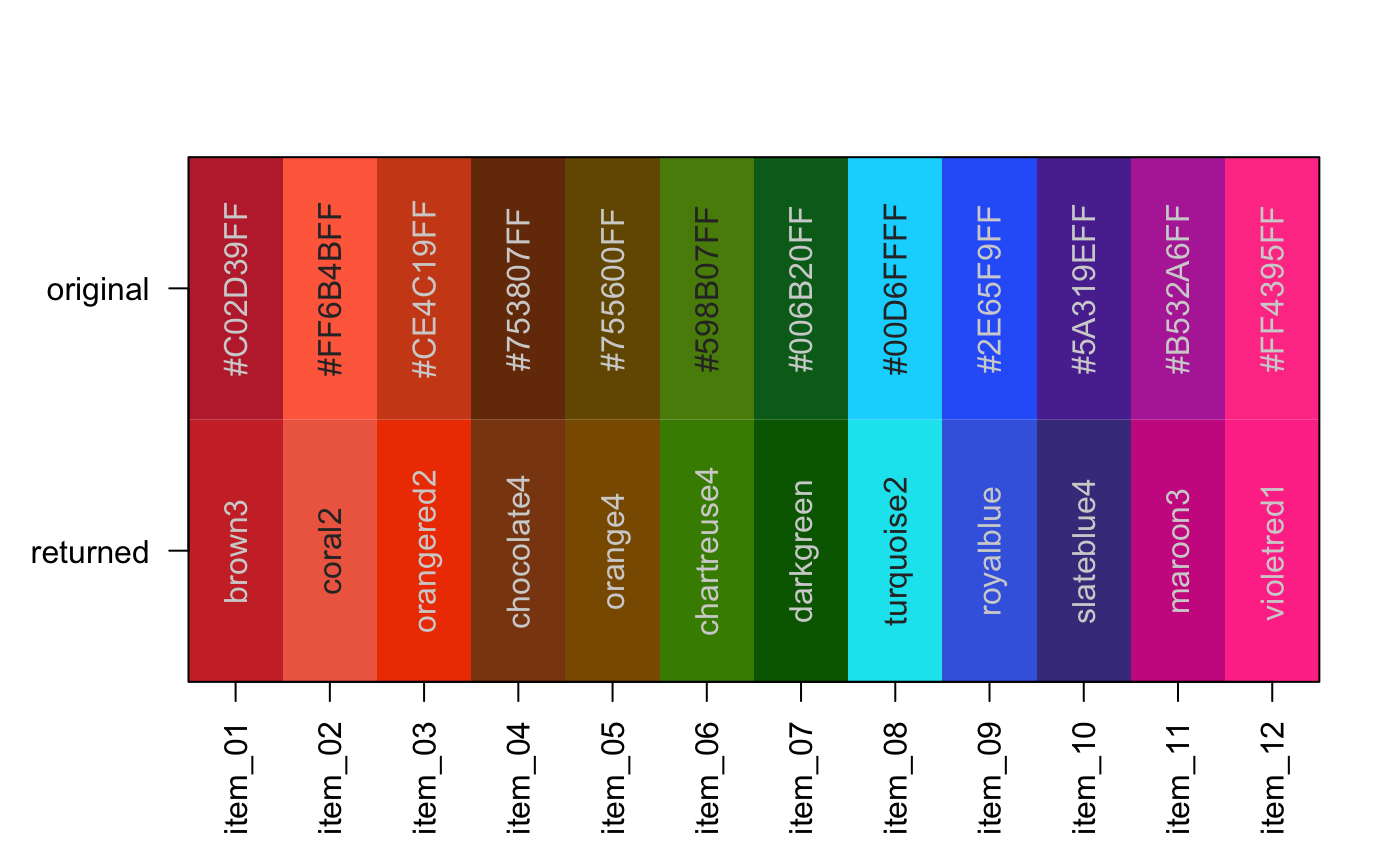
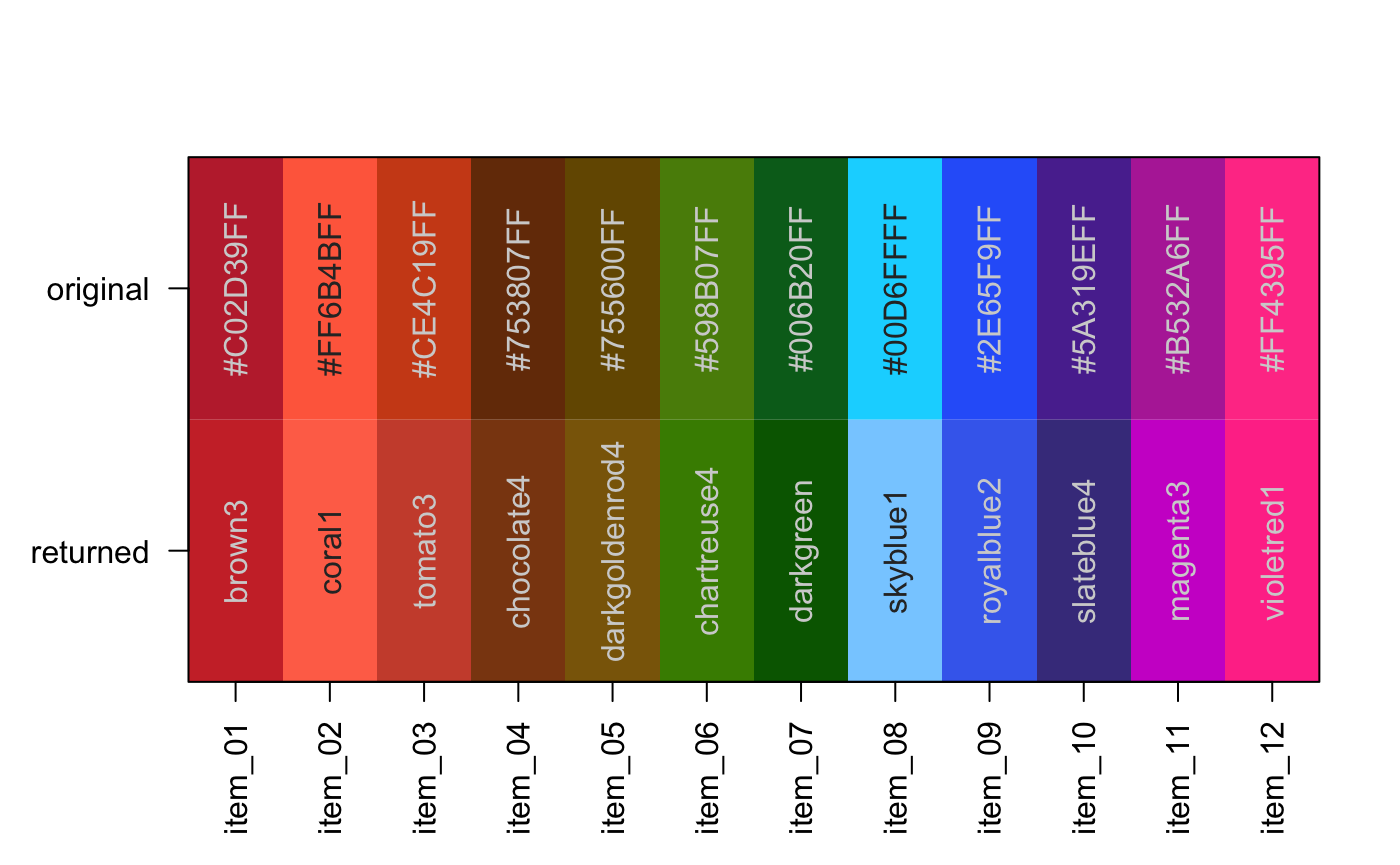
Added example for theme_jam(), rebuilt pkgdown docs.

diff --git a/docs/reference/vals2colorLevels.html b/docs/reference/vals2colorLevels.html
@@ -63,7 +63,7 @@
       </button>
       <span class="navbar-brand">
         <a class="navbar-link" href="../index.html">colorjam</a>
-        <span class="version label label-default" data-toggle="tooltip" data-placement="bottom" title="Released version">0.0.8.900</span>
+        <span class="version label label-default" data-toggle="tooltip" data-placement="bottom" title="Released version">0.0.12.900</span>
       </span>
     </div>
 
@@ -198,17 +198,17 @@ data.</p>
     <h2 class="hasAnchor" id="examples"><a class="anchor" href="#examples"></a>Examples</h2>
     <pre class="examples"><div class='input'><span class='co'># Start with an example numeric vector</span>
 <span class='no'>x</span> <span class='kw'>&lt;-</span> <span class='fu'>nameVector</span>(-<span class='fl'>5</span>:<span class='fl'>10</span>);
-<span class='fu'>showColors</span>(<span class='fu'>vals2colorLevels</span>(<span class='no'>x</span>));</div><div class='output co'>#&gt; <span class='warning'>Warning: no non-missing arguments to max; returning -Inf</span></div><div class='output co'>#&gt; <span class='error'>Error in seq.default(from = 2 * baseline - numLimit, to = numLimit, length.out = rampN +     1): 'from' must be a finite number</span></div><div class='input'>
+<span class='fu'>showColors</span>(<span class='fu'>vals2colorLevels</span>(<span class='no'>x</span>));</div><div class='img'><img src='vals2colorLevels-1.png' alt='' width='700' height='433' /></div><div class='input'>
 <span class='co'># decrease the number of gradient colors</span>
-<span class='fu'>showColors</span>(<span class='fu'>vals2colorLevels</span>(<span class='no'>x</span>, <span class='kw'>rampN</span><span class='kw'>=</span><span class='fl'>15</span>))</div><div class='output co'>#&gt; <span class='warning'>Warning: no non-missing arguments to max; returning -Inf</span></div><div class='output co'>#&gt; <span class='error'>Error in seq.default(from = 2 * baseline - numLimit, to = numLimit, length.out = rampN +     1): 'from' must be a finite number</span></div><div class='input'>
+<span class='fu'>showColors</span>(<span class='fu'>vals2colorLevels</span>(<span class='no'>x</span>, <span class='kw'>rampN</span><span class='kw'>=</span><span class='fl'>15</span>))</div><div class='img'><img src='vals2colorLevels-2.png' alt='' width='700' height='433' /></div><div class='input'>
 <span class='co'># change the baseline</span>
-<span class='fu'>showColors</span>(<span class='fu'>vals2colorLevels</span>(<span class='no'>x</span>, <span class='kw'>baseline</span><span class='kw'>=</span>-<span class='fl'>2</span>));</div><div class='input'>
+<span class='fu'>showColors</span>(<span class='fu'>vals2colorLevels</span>(<span class='no'>x</span>, <span class='kw'>baseline</span><span class='kw'>=</span>-<span class='fl'>2</span>));</div><div class='img'><img src='vals2colorLevels-3.png' alt='' width='700' height='433' /></div><div class='input'>
 <span class='co'># adjust the gradient using lens</span>
 <span class='fu'><a href='https://www.rdocumentation.org/packages/graphics/topics/par'>par</a></span>(<span class='st'>"mar"</span><span class='kw'>=</span><span class='fu'><a href='https://www.rdocumentation.org/packages/base/topics/c'>c</a></span>(<span class='fl'>5</span>,<span class='fl'>5</span>,<span class='fl'>4</span>,<span class='fl'>2</span>));
 <span class='fu'>imageByColors</span>(<span class='fu'>rbindList</span>(<span class='fu'><a href='https://www.rdocumentation.org/packages/base/topics/lapply'>lapply</a></span>(<span class='fu'>nameVector</span>(<span class='fu'><a href='https://www.rdocumentation.org/packages/base/topics/c'>c</a></span>(-<span class='fl'>5</span>,-<span class='fl'>2</span>,<span class='fl'>0</span>,<span class='fl'>2</span>,<span class='fl'>5</span>)), <span class='kw'>function</span>(<span class='no'>lens</span>){
    <span class='fu'>vals2colorLevels</span>(<span class='no'>x</span>, <span class='kw'>rampN</span><span class='kw'>=</span><span class='fl'>25</span>, <span class='kw'>lens</span><span class='kw'>=</span><span class='no'>lens</span>);
-})));</div><div class='output co'>#&gt; <span class='warning'>Warning: no non-missing arguments to max; returning -Inf</span></div><div class='output co'>#&gt; <span class='error'>Error in seq.default(from = 2 * baseline - numLimit, to = numLimit, length.out = rampN +     1): 'from' must be a finite number</span></div><div class='input'><span class='fu'><a href='https://www.rdocumentation.org/packages/graphics/topics/title'>title</a></span>(<span class='kw'>ylab</span><span class='kw'>=</span><span class='st'>"color lens factor"</span>, <span class='kw'>xlab</span><span class='kw'>=</span><span class='st'>"numeric value"</span>,
-   <span class='kw'>main</span><span class='kw'>=</span><span class='st'>"Effects of warping the color gradient"</span>);</div><div class='img'><img src='vals2colorLevels-1.png' alt='' width='700' height='433' /></div><div class='input'>
+})));</div><div class='input'><span class='fu'><a href='https://www.rdocumentation.org/packages/graphics/topics/title'>title</a></span>(<span class='kw'>ylab</span><span class='kw'>=</span><span class='st'>"color lens factor"</span>, <span class='kw'>xlab</span><span class='kw'>=</span><span class='st'>"numeric value"</span>,
+   <span class='kw'>main</span><span class='kw'>=</span><span class='st'>"Effects of warping the color gradient"</span>);</div><div class='img'><img src='vals2colorLevels-4.png' alt='' width='700' height='433' /></div><div class='input'>
 </div></pre>
   </div>
   <div class="col-md-3 hidden-xs hidden-sm" id="sidebar">

diff --git a/docs/reference/theme_jam.html b/docs/reference/theme_jam.html
@@ -63,7 +63,7 @@
       </button>
       <span class="navbar-brand">
         <a class="navbar-link" href="../index.html">colorjam</a>
-        <span class="version label label-default" data-toggle="tooltip" data-placement="bottom" title="Released version">0.0.8.900</span>
+        <span class="version label label-default" data-toggle="tooltip" data-placement="bottom" title="Released version">0.0.12.900</span>
       </span>
     </div>
 
@@ -113,12 +113,12 @@
     
     </div>
 
-    <pre class="usage"><span class='fu'>theme_jam</span>(<span class='kw'>theme_default</span> <span class='kw'>=</span> <span class='no'>theme_bw</span>, <span class='kw'>base_size</span> <span class='kw'>=</span> <span class='fl'>18</span>,
+    <pre class="usage"><span class='fu'>theme_jam</span>(<span class='kw'>theme_default</span> <span class='kw'>=</span> <span class='kw pkg'>ggplot2</span><span class='kw ns'>::</span><span class='no'><a href='https://ggplot2.tidyverse.org/reference/ggtheme.html'>theme_bw</a></span>, <span class='kw'>base_size</span> <span class='kw'>=</span> <span class='fl'>18</span>,
   <span class='kw'>grid.major.size</span> <span class='kw'>=</span> <span class='fl'>0.5</span>, <span class='kw'>grid.minor.size</span> <span class='kw'>=</span> <span class='fl'>0.25</span>,
   <span class='kw'>strip.background.colour</span> <span class='kw'>=</span> <span class='st'>"grey30"</span>,
   <span class='kw'>strip.background.fill</span> <span class='kw'>=</span> <span class='st'>"lightgoldenrod1"</span>,
-  <span class='kw'>panel.grid.major.colour</span> <span class='kw'>=</span> <span class='st'>"grey60"</span>,
-  <span class='kw'>panel.grid.minor.colour</span> <span class='kw'>=</span> <span class='st'>"grey80"</span>, <span class='kw'>axis.text.x.angle</span> <span class='kw'>=</span> <span class='fl'>60</span>,
+  <span class='kw'>panel.grid.major.colour</span> <span class='kw'>=</span> <span class='st'>"grey80"</span>,
+  <span class='kw'>panel.grid.minor.colour</span> <span class='kw'>=</span> <span class='st'>"grey90"</span>, <span class='kw'>axis.text.x.angle</span> <span class='kw'>=</span> <span class='fl'>60</span>,
   <span class='kw'>blankGrid</span> <span class='kw'>=</span> <span class='fl'>FALSE</span>, <span class='kw'>blankXgrid</span> <span class='kw'>=</span> <span class='fl'>FALSE</span>, <span class='kw'>blankYgrid</span> <span class='kw'>=</span> <span class='fl'>FALSE</span>,
   <span class='kw'>resetTheme</span> <span class='kw'>=</span> <span class='fl'>TRUE</span>, <span class='kw'>verbose</span> <span class='kw'>=</span> <span class='fl'>FALSE</span>, <span class='no'>...</span>)</pre>
     
@@ -198,6 +198,15 @@ overlaps.</p>
   <code><a href='vals2colorLevels.html'>vals2colorLevels</a></code></p></div>
     
 
+    <h2 class="hasAnchor" id="examples"><a class="anchor" href="#examples"></a>Examples</h2>
+    <pre class="examples"><div class='input'><span class='kw'>if</span> (<span class='fu'><a href='https://www.rdocumentation.org/packages/base/topics/message'>suppressPackageStartupMessages</a></span>(<span class='fu'><a href='https://www.rdocumentation.org/packages/base/topics/library'>require</a></span>(<span class='no'>ggplot2</span>))) {
+   <span class='no'>dsamp</span> <span class='kw'>&lt;-</span> <span class='no'>diamonds</span>[<span class='fu'><a href='https://www.rdocumentation.org/packages/base/topics/sample'>sample</a></span>(<span class='fu'><a href='https://www.rdocumentation.org/packages/base/topics/nrow'>nrow</a></span>(<span class='no'>diamonds</span>), <span class='fl'>1000</span>),];
+   (<span class='no'>d</span> <span class='kw'>&lt;-</span> <span class='fu'><a href='https://ggplot2.tidyverse.org/reference/ggplot.html'>ggplot</a></span>(<span class='no'>dsamp</span>, <span class='fu'><a href='https://ggplot2.tidyverse.org/reference/aes.html'>aes</a></span>(<span class='no'>carat</span>, <span class='no'>price</span>)) + <span class='fu'><a href='https://ggplot2.tidyverse.org/reference/geom_point.html'>geom_point</a></span>(<span class='fu'><a href='https://ggplot2.tidyverse.org/reference/aes.html'>aes</a></span>(<span class='kw'>colour</span><span class='kw'>=</span><span class='no'>cut</span>), <span class='kw'>size</span><span class='kw'>=</span><span class='fl'>2</span>));
+
+   <span class='fu'><a href='https://www.rdocumentation.org/packages/base/topics/print'>print</a></span>(<span class='no'>d</span> + <span class='fu'><a href='scale_color_jam.html'>scale_color_jam</a></span>() + <span class='fu'><a href='https://ggplot2.tidyverse.org/reference/labs.html'>ggtitle</a></span>(<span class='st'>"scale_color_jam()"</span>));
+   <span class='fu'><a href='https://www.rdocumentation.org/packages/base/topics/print'>print</a></span>(<span class='no'>d</span> + <span class='fu'><a href='scale_color_jam.html'>scale_color_jam</a></span>() + <span class='fu'>theme_jam</span>() + <span class='fu'><a href='https://ggplot2.tidyverse.org/reference/labs.html'>ggtitle</a></span>(<span class='st'>"scale_color_jam() + \ntheme_jam()"</span>));
+}</div><div class='img'><img src='theme_jam-1.png' alt='' width='700' height='433' /></div><div class='img'><img src='theme_jam-2.png' alt='' width='700' height='433' /></div><div class='input'>
+</div></pre>
   </div>
   <div class="col-md-3 hidden-xs hidden-sm" id="sidebar">
     <h2>Contents</h2>
@@ -207,7 +216,9 @@ overlaps.</p>
       <li><a href="#details">Details</a></li>
 
       <li><a href="#see-also">See also</a></li>
-          </ul>
+      
+      <li><a href="#examples">Examples</a></li>
+    </ul>
 
   </div>
 </div>

diff --git a/docs/reference/closestRcolor.html b/docs/reference/closestRcolor.html
@@ -63,7 +63,7 @@
       </button>
       <span class="navbar-brand">
         <a class="navbar-link" href="../index.html">colorjam</a>
-        <span class="version label label-default" data-toggle="tooltip" data-placement="bottom" title="Released version">0.0.8.900</span>
+        <span class="version label label-default" data-toggle="tooltip" data-placement="bottom" title="Released version">0.0.12.900</span>
       </span>
     </div>
 
@@ -114,9 +114,9 @@
     </div>
 
     <pre class="usage"><span class='fu'>closestRcolor</span>(<span class='no'>x</span>, <span class='kw'>colorSet</span> <span class='kw'>=</span> <span class='fu'>unvigrep</span>(<span class='st'>"^gr[ae]y($|[0-9]+$)"</span>, <span class='fu'><a href='https://www.rdocumentation.org/packages/grDevices/topics/colors'>colors</a></span>()),
-  <span class='kw'>showPalette</span> <span class='kw'>=</span> <span class='fl'>FALSE</span>, <span class='kw'>colorModel</span> <span class='kw'>=</span> <span class='fu'><a href='https://www.rdocumentation.org/packages/base/topics/c'>c</a></span>(<span class='st'>"hcl"</span>), <span class='kw'>Hwt</span> <span class='kw'>=</span> <span class='fl'>2</span>, <span class='kw'>Cwt</span> <span class='kw'>=</span> <span class='fl'>1</span>,
-  <span class='kw'>Lwt</span> <span class='kw'>=</span> <span class='fl'>5</span>, <span class='kw'>warpHue</span> <span class='kw'>=</span> <span class='fl'>TRUE</span>, <span class='kw'>returnType</span> <span class='kw'>=</span> <span class='fu'><a href='https://www.rdocumentation.org/packages/base/topics/c'>c</a></span>(<span class='st'>"color"</span>, <span class='st'>"name"</span>, <span class='st'>"match"</span>),
-  <span class='kw'>verbose</span> <span class='kw'>=</span> <span class='fl'>FALSE</span>, <span class='no'>...</span>)</pre>
+  <span class='kw'>showPalette</span> <span class='kw'>=</span> <span class='fl'>FALSE</span>, <span class='kw'>colorModel</span> <span class='kw'>=</span> <span class='fu'><a href='https://www.rdocumentation.org/packages/base/topics/c'>c</a></span>(<span class='st'>"hcl"</span>, <span class='st'>"LUV"</span>), <span class='kw'>Hwt</span> <span class='kw'>=</span> <span class='fl'>2</span>,
+  <span class='kw'>Cwt</span> <span class='kw'>=</span> <span class='fl'>1</span>, <span class='kw'>Lwt</span> <span class='kw'>=</span> <span class='fl'>4</span>, <span class='kw'>warpHue</span> <span class='kw'>=</span> <span class='fl'>TRUE</span>, <span class='kw'>method</span> <span class='kw'>=</span> <span class='st'>"maximum"</span>,
+  <span class='kw'>returnType</span> <span class='kw'>=</span> <span class='fu'><a href='https://www.rdocumentation.org/packages/base/topics/c'>c</a></span>(<span class='st'>"color"</span>, <span class='st'>"name"</span>, <span class='st'>"match"</span>), <span class='kw'>verbose</span> <span class='kw'>=</span> <span class='fl'>FALSE</span>, <span class='no'>...</span>)</pre>
     
     <h2 class="hasAnchor" id="arguments"><a class="anchor" href="#arguments"></a>Arguments</h2>
     <table class="ref-arguments">
@@ -189,12 +189,12 @@ although the default values appear to work fairly well.</p>
     
 
     <h2 class="hasAnchor" id="examples"><a class="anchor" href="#examples"></a>Examples</h2>
-    <pre class="examples"><div class='input'><span class='fu'>closestRcolor</span>(<span class='fu'><a href='rainbowJam.html'>rainbowJam</a></span>(<span class='fl'>12</span>), <span class='kw'>showPalette</span><span class='kw'>=</span><span class='fl'>TRUE</span>);</div><div class='output co'>#&gt; <span class='warning'>Warning: package 'colorspace' was built under R version 3.5.2</span></div><div class='img'><img src='closestRcolor-1.png' alt='' width='700' height='433' /></div><div class='output co'>#&gt;     #C02D39FF     #FF6B4BFF     #CE4C19FF     #753807FF     #755600FF 
-#&gt;      "brown3"      "coral2"  "orangered2"  "chocolate4"     "orange4" 
-#&gt;     #598B07FF     #006B20FF     #00D6FFFF     #2E65F9FF     #5A319EFF 
-#&gt; "chartreuse4"   "darkgreen"  "turquoise2"   "royalblue"  "slateblue4" 
-#&gt;     #B532A6FF     #FF4395FF 
-#&gt;     "maroon3"  "violetred1" </div><div class='input'>
+    <pre class="examples"><div class='input'><span class='fu'>closestRcolor</span>(<span class='fu'><a href='rainbowJam.html'>rainbowJam</a></span>(<span class='fl'>12</span>), <span class='kw'>showPalette</span><span class='kw'>=</span><span class='fl'>TRUE</span>);</div><div class='output co'>#&gt; <span class='warning'>Warning: package ‘colorspace’ was built under R version 3.5.2</span></div><div class='img'><img src='closestRcolor-1.png' alt='' width='700' height='433' /></div><div class='output co'>#&gt;        #C02D39FF        #FF6B4BFF        #CE4C19FF        #753807FF 
+#&gt;         "brown3"         "coral1"        "tomato3"     "chocolate4" 
+#&gt;        #755600FF        #598B07FF        #006B20FF        #00D6FFFF 
+#&gt; "darkgoldenrod4"    "chartreuse4"      "darkgreen"       "skyblue1" 
+#&gt;        #2E65F9FF        #5A319EFF        #B532A6FF        #FF4395FF 
+#&gt;     "royalblue2"     "slateblue4"       "magenta3"     "violetred1" </div><div class='input'>
 </div></pre>
   </div>
   <div class="col-md-3 hidden-xs hidden-sm" id="sidebar">

diff --git a/docs/reference/scale_color_jam.html b/docs/reference/scale_color_jam.html
@@ -63,7 +63,7 @@
       </button>
       <span class="navbar-brand">
         <a class="navbar-link" href="../index.html">colorjam</a>
-        <span class="version label label-default" data-toggle="tooltip" data-placement="bottom" title="Released version">0.0.8.900</span>
+        <span class="version label label-default" data-toggle="tooltip" data-placement="bottom" title="Released version">0.0.12.900</span>
       </span>
     </div>
 
@@ -114,7 +114,8 @@
     </div>
 
     <pre class="usage"><span class='fu'>scale_color_jam</span>(<span class='no'>...</span>, <span class='kw'>type</span> <span class='kw'>=</span> <span class='st'>"seq"</span>, <span class='kw'>palette</span> <span class='kw'>=</span> <span class='fl'>1</span>, <span class='kw'>direction</span> <span class='kw'>=</span> <span class='fl'>1</span>,
-  <span class='kw'>invert</span> <span class='kw'>=</span> <span class='fl'>FALSE</span>, <span class='kw'>darkFactor</span> <span class='kw'>=</span> <span class='fl'>1</span>, <span class='kw'>sFactor</span> <span class='kw'>=</span> <span class='fl'>1</span>, <span class='kw'>useGrey</span> <span class='kw'>=</span> <span class='fl'>20</span>)</pre>
+  <span class='kw'>invert</span> <span class='kw'>=</span> <span class='fl'>FALSE</span>, <span class='kw'>darkFactor</span> <span class='kw'>=</span> <span class='fl'>1</span>, <span class='kw'>sFactor</span> <span class='kw'>=</span> <span class='fl'>1</span>, <span class='kw'>alpha</span> <span class='kw'>=</span> <span class='fl'>1</span>,
+  <span class='kw'>useGrey</span> <span class='kw'>=</span> <span class='fl'>20</span>)</pre>
     
     <h2 class="hasAnchor" id="arguments"><a class="anchor" href="#arguments"></a>Arguments</h2>
     <table class="ref-arguments">
@@ -156,6 +157,11 @@ respectively. Intended when using <code>scale_color_jam()</code> and
 or darker than the fill color, a useful effect for outlines.</p></td>
     </tr>
     <tr>
+      <th>alpha</th>
+      <td><p>numeric value indicating the alpha transparency, on a
+scale of 0 (transparent) to 1 (non-transparent).</p></td>
+    </tr>
+    <tr>
       <th>useGrey</th>
       <td><p>integer value between 0 and 100 indicating the grey
 value, as sent to <code><a href='https://www.rdocumentation.org/packages/jamba/topics/setTextContrastColor'>jamba::setTextContrastColor()</a></code>, used only when
@@ -185,7 +191,7 @@ distinct set of categorical colors than <code><a href='https://ggplot2.tidyverse
 
    <span class='fu'><a href='https://www.rdocumentation.org/packages/base/topics/print'>print</a></span>(<span class='no'>d</span> + <span class='fu'><a href='https://ggplot2.tidyverse.org/reference/scale_hue.html'>scale_color_hue</a></span>() + <span class='fu'><a href='https://ggplot2.tidyverse.org/reference/labs.html'>ggtitle</a></span>(<span class='st'>"scale_color_hue()"</span>));
    <span class='fu'><a href='https://www.rdocumentation.org/packages/base/topics/print'>print</a></span>(<span class='no'>d</span> + <span class='fu'>scale_color_jam</span>() + <span class='fu'><a href='https://ggplot2.tidyverse.org/reference/labs.html'>ggtitle</a></span>(<span class='st'>"scale_color_jam()"</span>));
-}</div><div class='img'><img src='scale_color_jam-1.png' alt='' width='700' height='433' /></div><div class='img'><img src='scale_color_jam-2.png' alt='' width='700' height='433' /></div></pre>
+}</div><div class='output co'>#&gt; <span class='warning'>Warning: package ‘ggplot2’ was built under R version 3.5.2</span></div><div class='img'><img src='scale_color_jam-1.png' alt='' width='700' height='433' /></div><div class='img'><img src='scale_color_jam-2.png' alt='' width='700' height='433' /></div></pre>
   </div>
   <div class="col-md-3 hidden-xs hidden-sm" id="sidebar">
     <h2>Contents</h2>

diff --git a/docs/reference/jam_pal.html b/docs/reference/jam_pal.html
@@ -63,7 +63,7 @@
       </button>
       <span class="navbar-brand">
         <a class="navbar-link" href="../index.html">colorjam</a>
-        <span class="version label label-default" data-toggle="tooltip" data-placement="bottom" title="Released version">0.0.8.900</span>
+        <span class="version label label-default" data-toggle="tooltip" data-placement="bottom" title="Released version">0.0.12.900</span>
       </span>
     </div>
 
@@ -114,7 +114,7 @@
     </div>
 
     <pre class="usage"><span class='fu'>jam_pal</span>(<span class='kw'>type</span> <span class='kw'>=</span> <span class='st'>"seq"</span>, <span class='kw'>palette</span> <span class='kw'>=</span> <span class='fl'>1</span>, <span class='kw'>direction</span> <span class='kw'>=</span> <span class='fl'>1</span>, <span class='kw'>invert</span> <span class='kw'>=</span> <span class='fl'>FALSE</span>,
-  <span class='kw'>darkFactor</span> <span class='kw'>=</span> <span class='fl'>1</span>, <span class='kw'>sFactor</span> <span class='kw'>=</span> <span class='fl'>1</span>, <span class='kw'>useGrey</span> <span class='kw'>=</span> <span class='fl'>20</span>)</pre>
+  <span class='kw'>darkFactor</span> <span class='kw'>=</span> <span class='fl'>1</span>, <span class='kw'>sFactor</span> <span class='kw'>=</span> <span class='fl'>1</span>, <span class='kw'>alpha</span> <span class='kw'>=</span> <span class='fl'>1</span>, <span class='kw'>useGrey</span> <span class='kw'>=</span> <span class='fl'>20</span>, <span class='no'>...</span>)</pre>
     
     <h2 class="hasAnchor" id="arguments"><a class="anchor" href="#arguments"></a>Arguments</h2>
     <table class="ref-arguments">
@@ -152,10 +152,19 @@ respectively. Intended when using <code><a href='scale_color_jam.html'>scale_col
 or darker than the fill color, a useful effect for outlines.</p></td>
     </tr>
     <tr>
+      <th>alpha</th>
+      <td><p>numeric value indicating the alpha transparency, on a
+scale of 0 (transparent) to 1 (non-transparent).</p></td>
+    </tr>
+    <tr>
       <th>useGrey</th>
       <td><p>integer value between 0 and 100 indicating the grey
 value, as sent to <code><a href='https://www.rdocumentation.org/packages/jamba/topics/setTextContrastColor'>jamba::setTextContrastColor()</a></code>, used only when
 <code>invert=TRUE</code>.</p></td>
+    </tr>
+    <tr>
+      <th>...</th>
+      <td><p>additional arguments are passed to <code><a href='rainbowJam.html'>rainbowJam()</a></code>.</p></td>
     </tr>
     </table>
     

diff --git a/docs/reference/scale_fill_jam.html b/docs/reference/scale_fill_jam.html
@@ -63,7 +63,7 @@
       </button>
       <span class="navbar-brand">
         <a class="navbar-link" href="../index.html">colorjam</a>
-        <span class="version label label-default" data-toggle="tooltip" data-placement="bottom" title="Released version">0.0.8.900</span>
+        <span class="version label label-default" data-toggle="tooltip" data-placement="bottom" title="Released version">0.0.12.900</span>
       </span>
     </div>
 
@@ -114,7 +114,8 @@
     </div>
 
     <pre class="usage"><span class='fu'>scale_fill_jam</span>(<span class='no'>...</span>, <span class='kw'>type</span> <span class='kw'>=</span> <span class='st'>"seq"</span>, <span class='kw'>palette</span> <span class='kw'>=</span> <span class='fl'>1</span>, <span class='kw'>direction</span> <span class='kw'>=</span> <span class='fl'>1</span>,
-  <span class='kw'>invert</span> <span class='kw'>=</span> <span class='fl'>FALSE</span>, <span class='kw'>darkFactor</span> <span class='kw'>=</span> <span class='fl'>1</span>, <span class='kw'>sFactor</span> <span class='kw'>=</span> <span class='fl'>1</span>, <span class='kw'>useGrey</span> <span class='kw'>=</span> <span class='fl'>20</span>)</pre>
+  <span class='kw'>invert</span> <span class='kw'>=</span> <span class='fl'>FALSE</span>, <span class='kw'>darkFactor</span> <span class='kw'>=</span> <span class='fl'>1</span>, <span class='kw'>sFactor</span> <span class='kw'>=</span> <span class='fl'>1</span>, <span class='kw'>alpha</span> <span class='kw'>=</span> <span class='fl'>1</span>,
+  <span class='kw'>useGrey</span> <span class='kw'>=</span> <span class='fl'>20</span>)</pre>
     
     <h2 class="hasAnchor" id="arguments"><a class="anchor" href="#arguments"></a>Arguments</h2>
     <table class="ref-arguments">
@@ -154,6 +155,11 @@ optional adjustment of the color, by darkness and saturation,
 respectively. Intended when using <code><a href='scale_color_jam.html'>scale_color_jam()</a></code> and
 <code>scale_fill_jam()</code> where you want the color value to be lighter
 or darker than the fill color, a useful effect for outlines.</p></td>
+    </tr>
+    <tr>
+      <th>alpha</th>
+      <td><p>numeric value indicating the alpha transparency, on a
+scale of 0 (transparent) to 1 (non-transparent).</p></td>
     </tr>
     <tr>
       <th>useGrey</th>

diff --git a/docs/reference/h2hw.html b/docs/reference/h2hw.html
@@ -63,7 +63,7 @@
       </button>
       <span class="navbar-brand">
         <a class="navbar-link" href="../index.html">colorjam</a>
-        <span class="version label label-default" data-toggle="tooltip" data-placement="bottom" title="Released version">0.0.8.900</span>
+        <span class="version label label-default" data-toggle="tooltip" data-placement="bottom" title="Released version">0.0.12.900</span>
       </span>
     </div>
 
@@ -166,8 +166,7 @@ blue). The color yellow has hue=60 in RGB space, so the call to
 <span class='co'># colors. Note that blue and yellow have hues that differ by exactly 180</span>
 <span class='co'># degrees, meaning a hue average is as likely to be purple as green.</span>
 <span class='no'>huesBY</span> <span class='kw'>&lt;-</span> <span class='kw pkg'>jamba</span><span class='kw ns'>::</span><span class='fu'><a href='https://www.rdocumentation.org/packages/jamba/topics/col2hcl'>col2hcl</a></span>(<span class='fu'><a href='https://www.rdocumentation.org/packages/base/topics/c'>c</a></span>(<span class='st'>"blue"</span>, <span class='st'>"yellow"</span>))[<span class='st'>"H"</span>,];
-<span class='no'>huesBY</span>;</div><div class='output co'>#&gt;      blue    yellow 
-#&gt; 265.87278  85.87351 </div><div class='input'><span class='no'>warpedHuesBY</span> <span class='kw'>&lt;-</span> <span class='fu'>h2hw</span>(<span class='no'>huesBY</span>);
+<span class='no'>huesBY</span>;</div><div class='output co'>#&gt; [1] 265.87278  85.87351</div><div class='input'><span class='no'>warpedHuesBY</span> <span class='kw'>&lt;-</span> <span class='fu'>h2hw</span>(<span class='no'>huesBY</span>);
 <span class='no'>warpedHuesBY</span>;</div><div class='output co'>#&gt; [1] 265.8728 145.8735</div><div class='input'><span class='no'>warpedHues</span> <span class='kw'>&lt;-</span> <span class='fu'>h2hw</span>(<span class='no'>hues</span>);</div><div class='output co'>#&gt; <span class='error'>Error in approx(x = h1, y = h2, xout = (h%%360)): object 'hues' not found</span></div><div class='input'>
 </div></pre>
   </div>

diff --git a/docs/index.html b/docs/index.html
@@ -33,7 +33,7 @@
       </button>
       <span class="navbar-brand">
         <a class="navbar-link" href="index.html">colorjam</a>
-        <span class="version label label-default" data-toggle="tooltip" data-placement="bottom" title="Released version">0.0.8.900</span>
+        <span class="version label label-default" data-toggle="tooltip" data-placement="bottom" title="Released version">0.0.12.900</span>
       </span>
     </div>
 
@@ -251,12 +251,12 @@ groupColors &lt;-<span class="st"> </span><span class="kw"><a href="reference/gr
 <div class="sourceCode"><pre class="sourceCode r"><code class="sourceCode r"><span class="kw"><a href="reference/closestRcolor.html">closestRcolor</a></span>(<span class="kw"><a href="reference/rainbowJam.html">rainbowJam</a></span>(<span class="dv">12</span>),
    <span class="dt">showPalette=</span><span class="ot">TRUE</span>);</code></pre></div>
 <p><img src="index_files/figure-html/color_names-1.png" width="700"></p>
-<pre><code>#&gt;     #C02D39FF     #FF6B4BFF     #CE4C19FF     #753807FF     #755600FF 
-#&gt;      "brown3"      "coral2"  "orangered2"  "chocolate4"     "orange4" 
-#&gt;     #598B07FF     #006B20FF     #00D6FFFF     #2E65F9FF     #5A319EFF 
-#&gt; "chartreuse4"   "darkgreen"  "turquoise2"   "royalblue"  "slateblue4" 
-#&gt;     #B532A6FF     #FF4395FF 
-#&gt;     "maroon3"  "violetred1"</code></pre>
+<pre><code>#&gt;        #C02D39FF        #FF6B4BFF        #CE4C19FF        #753807FF 
+#&gt;         "brown3"         "coral1"        "tomato3"     "chocolate4" 
+#&gt;        #755600FF        #598B07FF        #006B20FF        #00D6FFFF 
+#&gt; "darkgoldenrod4"    "chartreuse4"      "darkgreen"       "skyblue1" 
+#&gt;        #2E65F9FF        #5A319EFF        #B532A6FF        #FF4395FF 
+#&gt;     "royalblue2"     "slateblue4"       "magenta3"     "violetred1"</code></pre>
 <p>Of course, not all hex colors have a close match in the named R colors, but the closest color is returned nonetheless.</p>
 </div>
 </div>

diff --git a/docs/news/index.html b/docs/news/index.html
@@ -60,7 +60,7 @@
       </button>
       <span class="navbar-brand">
         <a class="navbar-link" href="../index.html">colorjam</a>
-        <span class="version label label-default" data-toggle="tooltip" data-placement="bottom" title="Released version">0.0.8.900</span>
+        <span class="version label label-default" data-toggle="tooltip" data-placement="bottom" title="Released version">0.0.12.900</span>
       </span>
     </div>
 

diff --git a/docs/reference/group2colors.html b/docs/reference/group2colors.html
@@ -63,7 +63,7 @@
       </button>
       <span class="navbar-brand">
         <a class="navbar-link" href="../index.html">colorjam</a>
-        <span class="version label label-default" data-toggle="tooltip" data-placement="bottom" title="Released version">0.0.8.900</span>
+        <span class="version label label-default" data-toggle="tooltip" data-placement="bottom" title="Released version">0.0.12.900</span>
       </span>
     </div>
 

diff --git a/docs/reference/h2hwOptions.html b/docs/reference/h2hwOptions.html
@@ -63,7 +63,7 @@
       </button>
       <span class="navbar-brand">
         <a class="navbar-link" href="../index.html">colorjam</a>
-        <span class="version label label-default" data-toggle="tooltip" data-placement="bottom" title="Released version">0.0.8.900</span>
+        <span class="version label label-default" data-toggle="tooltip" data-placement="bottom" title="Released version">0.0.12.900</span>
       </span>
     </div>
 

diff --git a/docs/reference/hw2h.html b/docs/reference/hw2h.html
@@ -63,7 +63,7 @@
       </button>
       <span class="navbar-brand">
         <a class="navbar-link" href="../index.html">colorjam</a>
-        <span class="version label label-default" data-toggle="tooltip" data-placement="bottom" title="Released version">0.0.8.900</span>
+        <span class="version label label-default" data-toggle="tooltip" data-placement="bottom" title="Released version">0.0.12.900</span>
       </span>
     </div>
 
